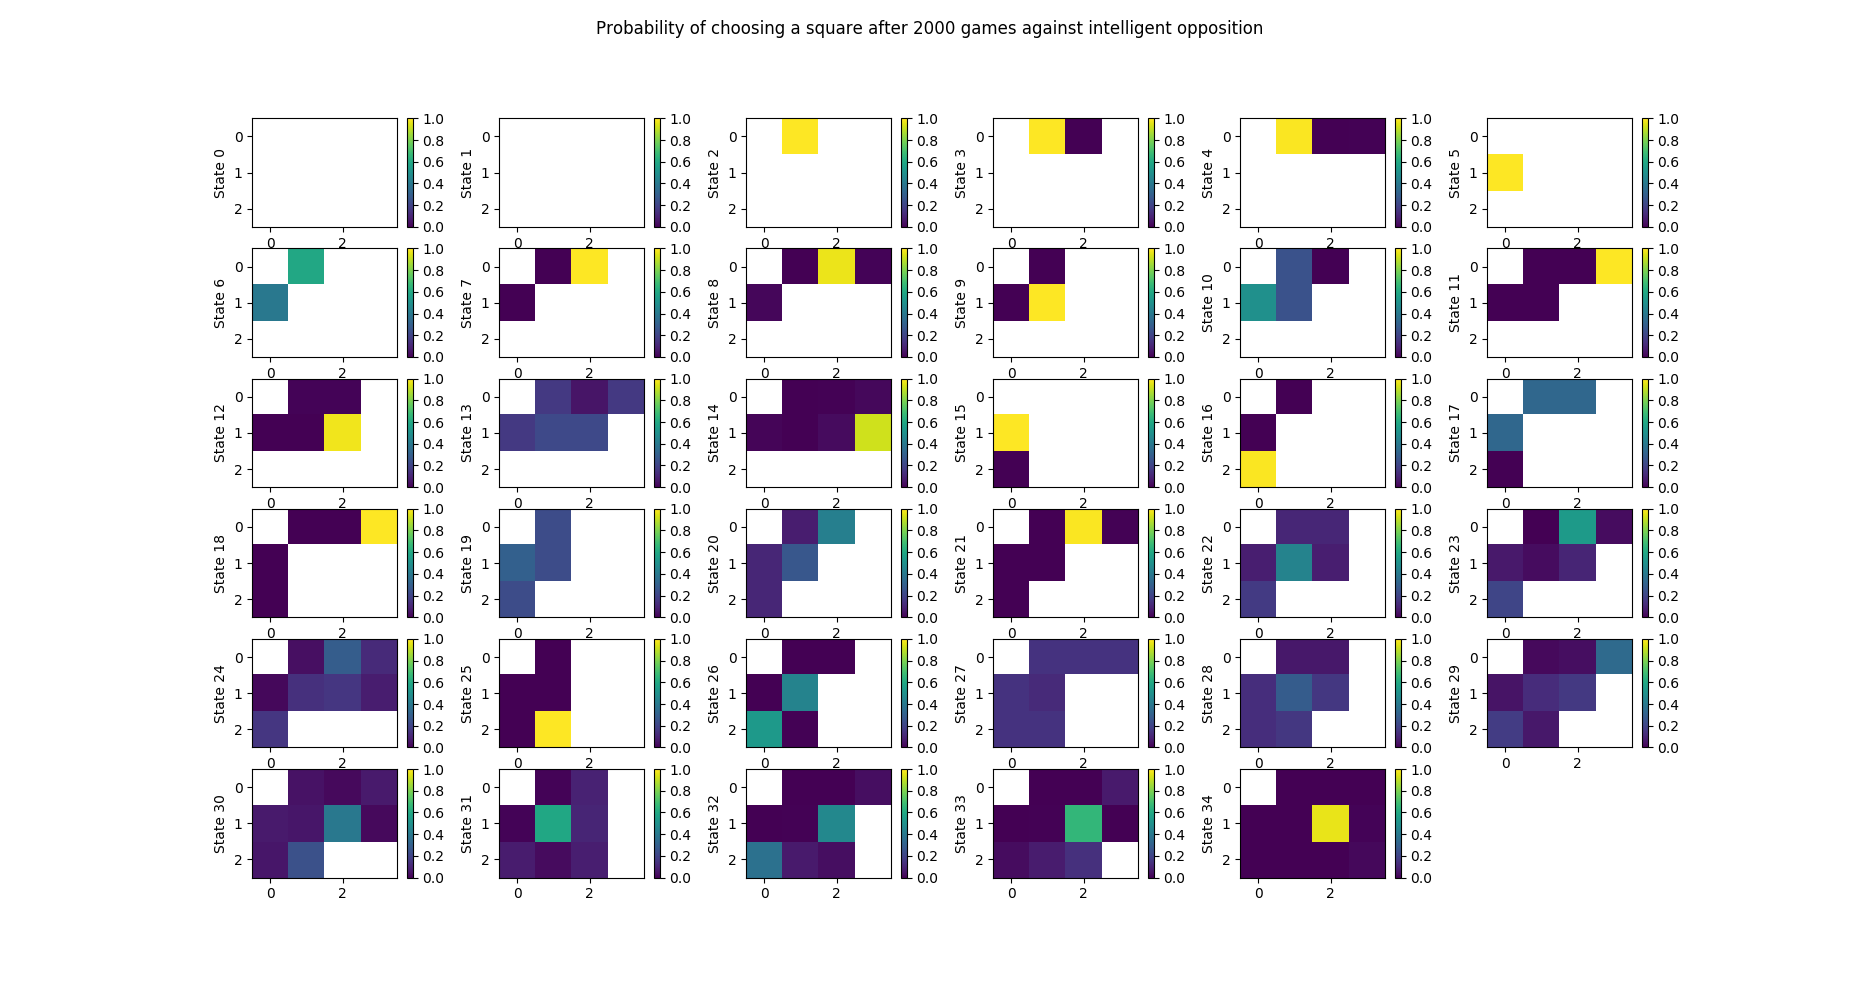
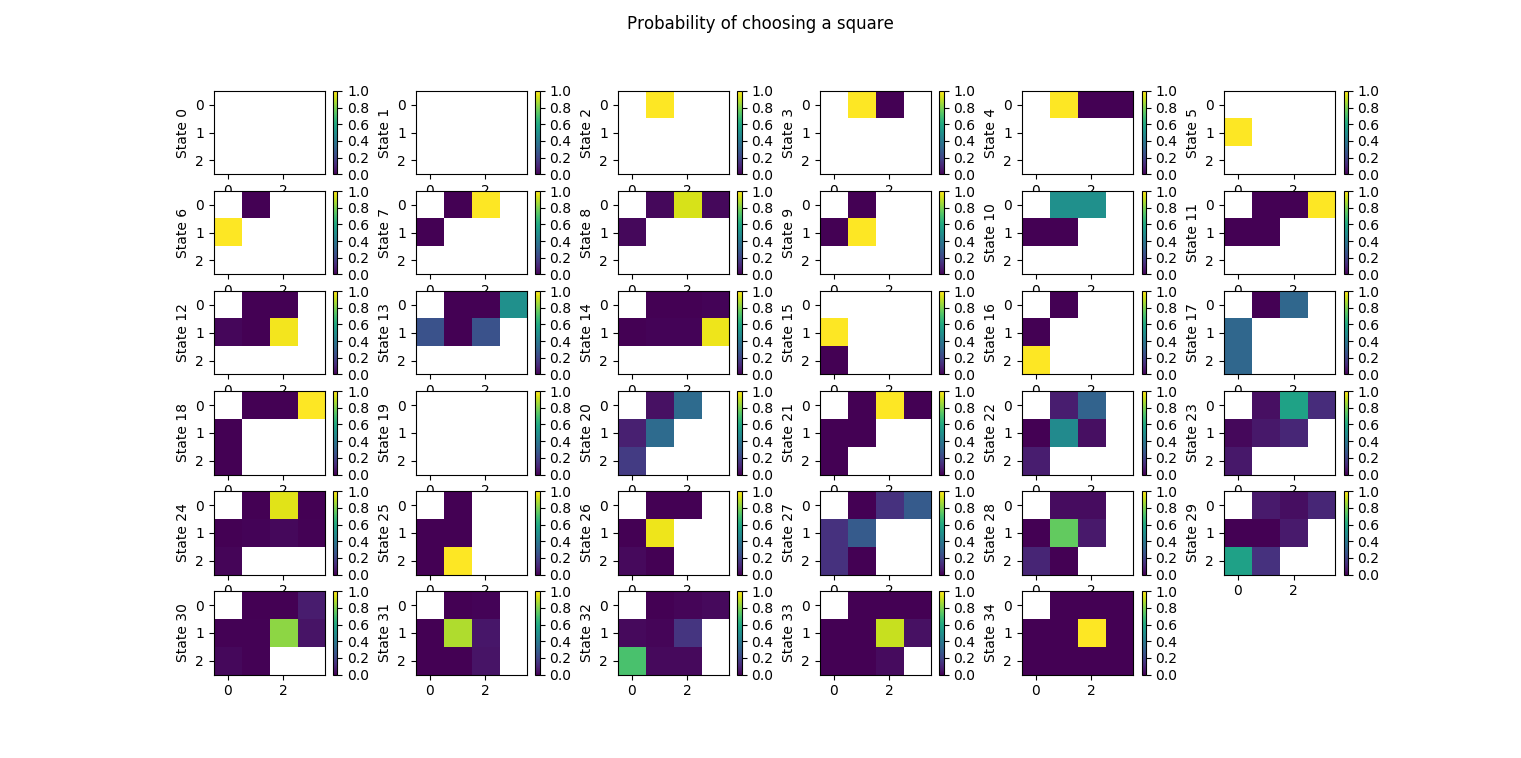
updated chomp st starting parameters and readme

Changed region(s): [[0.0927, 0.1214, 0.927, 0.9103], [0.309, 0.0, 0.6798, 0.0607]]

diff --git a/chomp.py b/chomp.py
@@ -95,7 +95,7 @@ class Bar(object):
         Out: array([3, 2, 2, 0])
 
     """
-    def __init__(self, rows=3, cols=4, bounty=3, maxBeads=2, minBeads=1):
+    def __init__(self, rows=3, cols=4, bounty=3, maxBeads=3, minBeads=1):
         self.rows = rows
         self.cols = cols
         self.eaten = np.zeros([rows, cols], dtype=int)
@@ -498,7 +498,7 @@ class Box(object):
         repr - prints the dictionary
         populate - initialise internal dictionary with the right number moves
         distribution - calculates the number of beads to start in each box
-        draw - return a move or -1 for resignnerate a list of Box objects
+        draw - return a move or -1 for resign
         replenish - add beads to winning moves
     '''
 
@@ -562,7 +562,7 @@ class Box(object):
         return selected
 
     def replenish(self, winningMove):
-        '''Adds to the dictionary the list of moves which won the game'''
+        '''Adds to the dictionary with key winningMove by the bounty amount'''
         self.moveDict[winningMove] += self.bounty
 
 
@@ -601,10 +601,10 @@ if __name__ == '__main__':
                     playLoop = False
         elif choice == 2:
             for i in range(10000):
-                b.play('random', display=False)
+                b.play('intelligent', display=False)
             print('Trained')
         elif choice == 3:
-            fname = input('Type the filename to save')
+            fname = input('Type the filename to save: ')
             b.save(fname)
         elif choice == 4:
             filename = askopenfilename()  # show an "Open" dialog box

diff --git a/README.md b/README.md
@@ -6,9 +6,7 @@
 
 With 3 rows and 4 columns, the game has a total of 34 states, which makes it a candidate for a simple machine-learning demonstration, in the same vein as the [MENACE](https://github.com/mscroggs/MENACE) machine.
 
-The 50GamesHuman.pkl file contains the state of the machine after 50 games against a human, starting with 2 beads in each box. The 2000Games#.pkl files contain the machine state after facing a random opponent, or another 'intelligent' opponent using the same strategy.
+The 50GamesHuman.pkl file contains the state of the machine after 50 games against a human, starting with 2 beads in each box. The 2000Games#.pkl files contain the machine state after facing a random opponent, or another 'intelligent' opponent using the same strategy. perfect.pkl is almost certain to win when playing first.
 
-![State transition probability diagram](prob-diagrams/ProbChooseSquareHuman.png)
-This image shows the relative probability of choosing a square on a colour scale, after 50 training games against a human. White squares cannot be played (they are already eaten, or they are the poisoned top-left square). State 34 (lower right corner of the image) is the starting state of the game. The program has determined that playing in square number 8 (1st column, 3rd row) is the best first move.
-
-This may turn into an NGCM outreach demonstration if it turns out to be successful.
+![State transition probability diagram](prob-diagrams/ProbChooseSquareIntelligent.png)
+This image shows the relative probability of choosing a square on a colour scale, after 10000 games of self-play. White squares cannot be played (they are already eaten, or they are the poisoned top-left square). State 34 (lower right corner of the image) is the starting state of the game. The program has determined that playing in square number 6 (3rd column, 2nd row) is the best first move.
